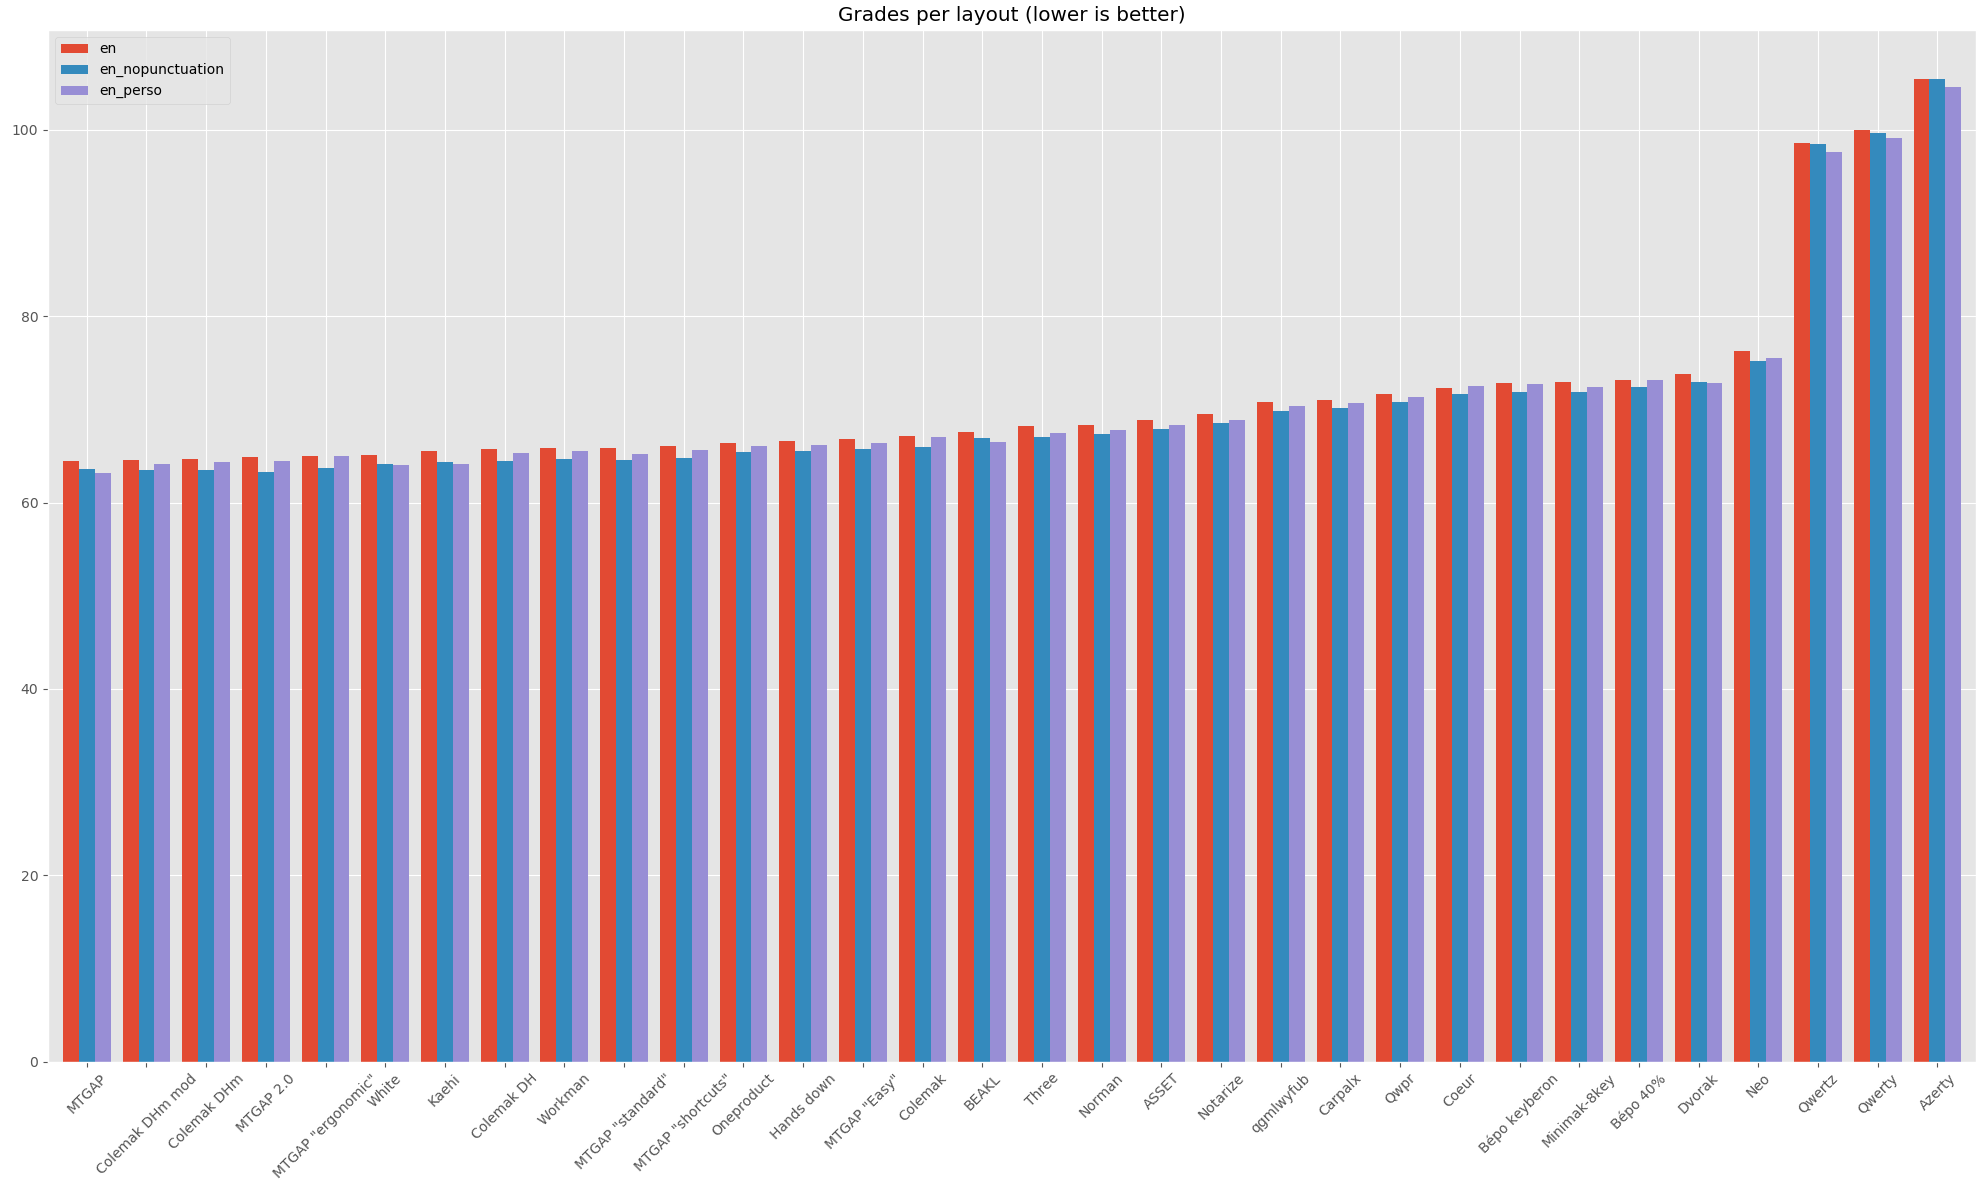
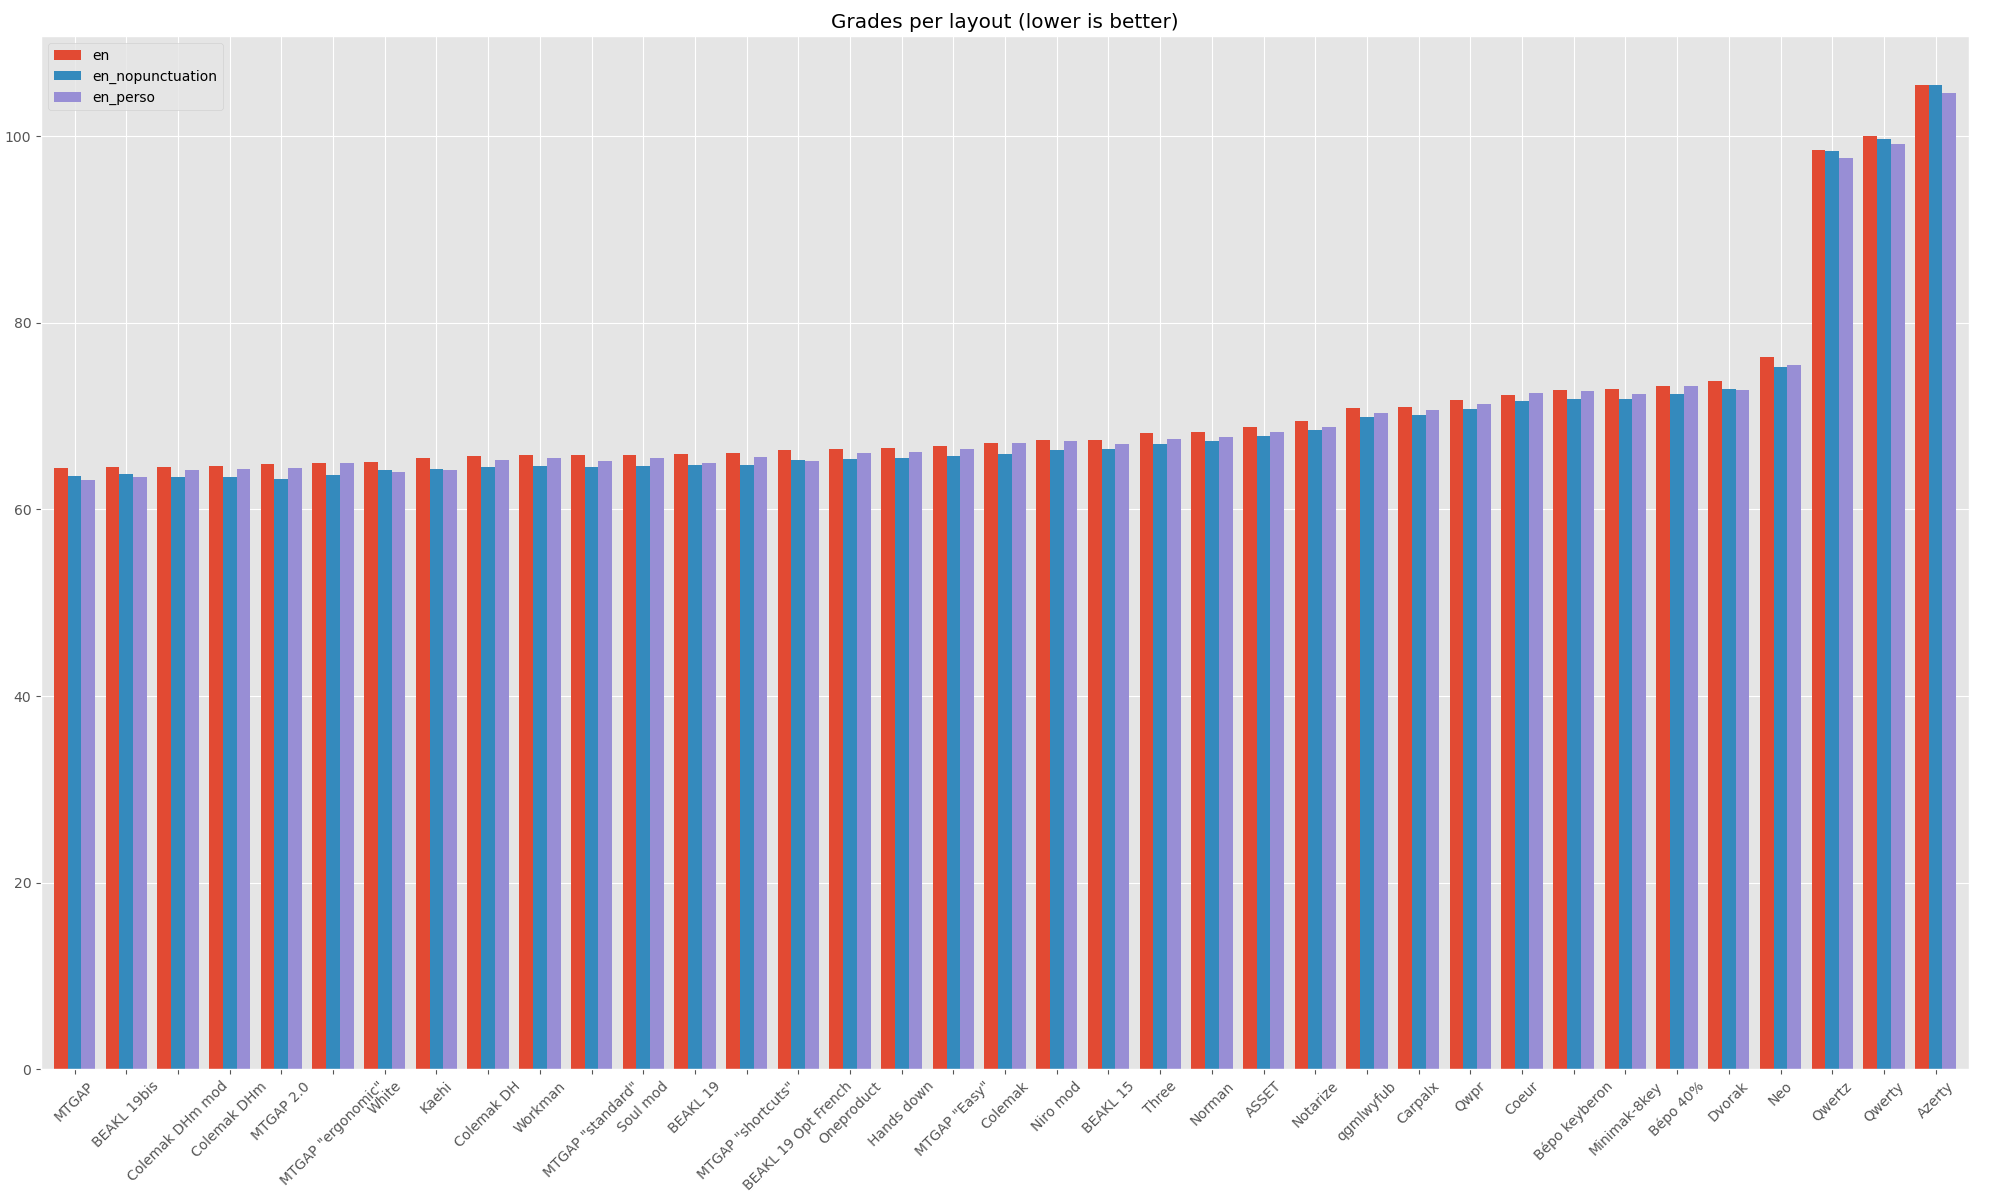
added Niro and Soul, adapted README to BEAKL 19bis

diff --git a/layout_evaluation/script.py b/layout_evaluation/script.py
@@ -57,11 +57,11 @@ def main():
     df_results['Personal average'] = df_results.en * 0.5 + df_results.fr * 0.3 + df_results.es * 0.1 + df_results.de * 0.1
 
     # sort the results
-    df_results = df_results.sort_values(by=['Personal average'], ascending=True)
+    df_results = df_results.sort_values(by=['en'], ascending=True)
 
     # filter/reorder the results
-    # df_results = df_results[['en', 'en_nopunctuation', 'en_perso', 'fr', 'fr_nopunctuation', 'fr_perso', 'es', 'de']]
-    df_results = df_results[['en', 'en_perso', 'fr', 'fr_perso', 'es', 'de', 'Personal average']] # results_full.png
+    # df_results = df_results[['en', 'en_nopunctuation', 'en_perso', 'fr', 'fr_nopunctuation', 'fr_perso', 'es', 'de', 'Personal average']]
+    df_results = df_results[['en', 'en_perso', 'fr', 'fr_perso', 'es', 'de']] # results_full.png
     # df_results = df_results[['en', 'fr', 'es', 'de']] # results.png
     # df_results = df_results[['en', 'en_nopunctuation', 'en_perso']] # results_en.png
     # df_results = df_results[['fr', 'fr_nopunctuation', 'fr_perso']] # results_fr.png

diff --git a/README.md b/README.md
@@ -214,40 +214,45 @@ In addition, here are the results for [only English](images/results_en.png) and 
 
 Here is the complete results list. The layouts can be seen in `config.txt`.
 
-| Layout                                                                                          | English | English perso | French | French perso | Spanish | German |
-| :---------------------------------------------------------------------------------------------- | ------: | ------------: | -----: | -----------: | ------: | -----: |
-| [MTGAP](https://mathematicalmulticore.wordpress.com/the-keyboard-layout-project/)               |   64.48 |         63.17 |  69.73 |        69.20 |   66.14 |  67.15 |
-| Colemak DHm mod                                                                                 |   64.54 |         64.18 |  67.32 |        66.75 |   64.18 |  64.70 |
-| [Colemak DHm](https://colemakmods.github.io/mod-dh/keyboards.html)                              |   64.66 |         64.31 |  67.88 |        67.21 |   64.18 |  64.70 |
-| [MTGAP 2.0](https://mathematicalmulticore.wordpress.com/2010/06/21/mtgaps-keyboard-layout-2-0/) |   64.91 |         64.44 |  67.21 |        65.77 |   64.01 |  64.98 |
-| [MTGAP "ergonomic"](http://mtgap.bilfo.com/official_keyboard.html)                              |   64.99 |         64.96 |  69.18 |        68.63 |   64.81 |  66.23 |
-| [White](https://github.com/mw8/white_keyboard_layout)                                           |   65.10 |         64.00 |  73.60 |        73.76 |   68.09 |  66.50 |
-| [Kaehi](https://geekhack.org/index.php?topic=98275.0)                                           |   65.56 |         64.18 |  70.35 |        69.09 |   65.92 |  67.83 |
-| [Colemak DH](https://colemakmods.github.io/mod-dh/)                                             |   65.71 |         65.29 |  69.32 |        68.64 |   65.67 |  65.43 |
-| [Workman](https://workmanlayout.org/)                                                           |   65.83 |         65.51 |  71.42 |        70.57 |   66.85 |  66.93 |
-| [MTGAP "standard"](http://mtgap.bilfo.com/official_keyboard.html)                               |   65.84 |         65.24 |  68.35 |        67.27 |   64.43 |  66.78 |
-| [MTGAP "shortcuts"](http://mtgap.bilfo.com/official_keyboard.html) (ROTS)                       |   66.02 |         65.59 |  68.24 |        67.30 |   62.72 |  65.44 |
-| [Oneproduct](https://geekhack.org/index.php?topic=67604.0)                                      |   66.44 |         66.07 |  73.48 |        72.44 |   68.07 |  68.45 |
-| [Hands down](https://sites.google.com/alanreiser.com/handsdown)                                 |   66.64 |         66.20 |  68.97 |        67.21 |   66.10 |  63.14 |
-| [MTGAP "Easy"](http://mtgap.bilfo.com/official_keyboard.html)                                   |   66.78 |         66.44 |  68.63 |        67.15 |   64.55 |  64.97 |
-| [Colemak](https://colemak.com/)                                                                 |   67.15 |         67.08 |  68.40 |        67.00 |   65.37 |  67.77 |
-| [BEAKL](https://deskthority.net/wiki/BEAKL)                                                     |   67.53 |         66.54 |  71.57 |        70.62 |   68.37 |  72.13 |
-| [Three](https://github.com/jackrosenthal/threelayout)                                           |   68.23 |         67.51 |  73.43 |        72.53 |   69.46 |  71.00 |
-| [Norman](https://normanlayout.info/)                                                            |   68.34 |         67.74 |  74.01 |        72.48 |   71.24 |  69.86 |
-| [ASSET](http://millikeys.sourceforge.net/asset/)                                                |   68.88 |         68.29 |  69.42 |        67.53 |   66.69 |  70.35 |
-| [Notarize](https://sites.google.com/alanreiser.com/handsdown)                                   |   69.45 |         68.83 |  70.76 |        68.81 |   67.68 |  69.21 |
-| [qgmlwyfub](http://mkweb.bcgsc.ca/carpalx/?full_optimization)                                   |   70.83 |         70.39 |  75.87 |        76.11 |   70.24 |  72.16 |
-| [Carpalx](http://mkweb.bcgsc.ca/carpalx/?full_optimization)                                     |   71.02 |         70.70 |  76.25 |        76.62 |   70.86 |  74.00 |
-| [Qwpr](https://sourceforge.net/projects/qwpr/)                                                  |   71.69 |         71.30 |  73.36 |        72.93 |   69.44 |  73.07 |
-| [Coeur](https://bepo.fr/wiki/Utilisateur:Bibidibop)                                             |   72.29 |         72.46 |  67.35 |        65.66 |   67.07 |  71.04 |
-| [Bépo keyberon](https://github.com/TeXitoi/keyberon#whats-the-layout)                           |   72.79 |         72.71 |  68.15 |        66.78 |   68.53 |  72.07 |
-| [Minimak-8key](http://www.minimak.org/)                                                         |   72.94 |         72.37 |  74.81 |        73.48 |   71.94 |  75.20 |
-| [Bépo 40%](http://forum.bepo.fr/viewtopic.php?id=1131)                                          |   73.20 |         73.19 |  67.97 |        66.61 |   68.54 |  73.10 |
-| [Dvorak](https://en.wikipedia.org/wiki/Dvorak_keyboard_layout)                                  |   73.74 |         72.79 |  78.15 |        76.07 |   75.34 |  74.59 |
-| [Neo](https://neo-layout.org/)                                                                  |   76.31 |         75.50 |  76.37 |        75.37 |   74.56 |  71.62 |
-| Qwertz                                                                                          |   98.56 |         97.63 |  98.12 |        97.59 |   93.66 |  98.31 |
-| Qwerty                                                                                          |  100.00 |         99.17 |  98.90 |        98.64 |   92.45 |  99.74 |
-| Azerty                                                                                          |  105.44 |        104.64 | 104.18 |       103.88 |  102.40 | 102.81 |
+| Layout                                                                                                                                        | English | English perso | French | French perso | Spanish | German |
+| :-------------------------------------------------------------------------------------------------------------------------------------------- | ------: | ------------: | -----: | -----------: | ------: | -----: |
+| [MTGAP](https://mathematicalmulticore.wordpress.com/the-keyboard-layout-project/)                                                             |   64.48 |         63.17 |  69.73 |        69.20 |   66.14 |  67.15 |
+| [BEAKL 19bis](https://www.reddit.com/r/ErgoDoxEZ/comments/gsvpug/layout_of_the_month_beakl_15/ftcan68/?context=3)                             |   64.51 |         63.47 |  66.87 |        65.81 |   64.45 |  67.92 |
+| Colemak DHm mod                                                                                                                               |   64.54 |         64.18 |  67.32 |        66.75 |   64.18 |  64.70 |
+| [Colemak DHm](https://colemakmods.github.io/mod-dh/keyboards.html)                                                                            |   64.66 |         64.31 |  67.88 |        67.21 |   64.18 |  64.70 |
+| [MTGAP 2.0](https://mathematicalmulticore.wordpress.com/2010/06/21/mtgaps-keyboard-layout-2-0/)                                               |   64.91 |         64.44 |  67.21 |        65.77 |   64.01 |  64.98 |
+| [MTGAP "ergonomic"](http://mtgap.bilfo.com/official_keyboard.html)                                                                            |   64.99 |         64.96 |  69.18 |        68.63 |   64.81 |  66.23 |
+| [White](https://github.com/mw8/white_keyboard_layout)                                                                                         |   65.10 |         64.00 |  73.60 |        73.76 |   68.09 |  66.50 |
+| [Kaehi](https://geekhack.org/index.php?topic=98275.0)                                                                                         |   65.56 |         64.18 |  70.35 |        69.09 |   65.92 |  67.83 |
+| [Colemak DH](https://colemakmods.github.io/mod-dh/)                                                                                           |   65.71 |         65.29 |  69.32 |        68.64 |   65.67 |  65.43 |
+| [Workman](https://workmanlayout.org/)                                                                                                         |   65.83 |         65.51 |  71.42 |        70.57 |   66.85 |  66.93 |
+| [MTGAP "standard"](http://mtgap.bilfo.com/official_keyboard.html)                                                                             |   65.84 |         65.24 |  68.35 |        67.27 |   64.43 |  66.78 |
+| [Soul mod](http://kennetchaz.github.io/symmetric-typing/soul.html)                                                                            |   65.89 |         65.53 |  68.96 |        68.00 |   64.71 |  64.38 |
+| [BEAKL 19](https://www.reddit.com/r/ErgoDoxEZ/comments/gsvpug/layout_of_the_month_beakl_15/fsc1t3y/?context=3)                                |   65.98 |         65.00 |  70.36 |        68.28 |   66.12 |  66.99 |
+| [MTGAP "shortcuts"](http://mtgap.bilfo.com/official_keyboard.html) (ROTS)                                                                     |   66.02 |         65.59 |  68.24 |        67.30 |   62.72 |  65.44 |
+| [BEAKL 19 Opt French](https://www.reddit.com/r/ErgoMechKeyboards/comments/j1eopm/hands_down_layout_is_ready_for_daily_use/g7bjmr7/?context=3) |   66.32 |         65.23 |  67.12 |        65.96 |   65.85 |  65.31 |
+| [Oneproduct](https://geekhack.org/index.php?topic=67604.0)                                                                                    |   66.44 |         66.07 |  73.48 |        72.44 |   68.07 |  68.45 |
+| [Hands down](https://sites.google.com/alanreiser.com/handsdown)                                                                               |   66.64 |         66.20 |  68.97 |        67.21 |   66.10 |  63.14 |
+| [MTGAP "Easy"](http://mtgap.bilfo.com/official_keyboard.html)                                                                                 |   66.78 |         66.44 |  68.63 |        67.15 |   64.55 |  64.97 |
+| [Colemak](https://colemak.com/)                                                                                                               |   67.15 |         67.08 |  68.40 |        67.00 |   65.37 |  67.77 |
+| [Niro mod](http://kennetchaz.github.io/symmetric-typing/niro.html)                                                                            |   67.41 |         67.39 |  70.47 |        69.30 |   66.58 |  67.71 |
+| [BEAKL 15](https://deskthority.net/wiki/BEAKL)                                                                                                |   67.43 |         66.98 |  71.86 |        69.85 |   66.64 |  69.37 |
+| [Three](https://github.com/jackrosenthal/threelayout)                                                                                         |   68.23 |         67.51 |  73.43 |        72.53 |   69.46 |  71.00 |
+| [Norman](https://normanlayout.info/)                                                                                                          |   68.34 |         67.74 |  74.01 |        72.48 |   71.24 |  69.86 |
+| [ASSET](http://millikeys.sourceforge.net/asset/)                                                                                              |   68.88 |         68.29 |  69.42 |        67.53 |   66.69 |  70.35 |
+| [Notarize](https://sites.google.com/alanreiser.com/handsdown)                                                                                 |   69.45 |         68.83 |  70.76 |        68.81 |   67.68 |  69.21 |
+| [qgmlwyfub](http://mkweb.bcgsc.ca/carpalx/?full_optimization)                                                                                 |   70.83 |         70.39 |  75.87 |        76.11 |   70.24 |  72.16 |
+| [Carpalx](http://mkweb.bcgsc.ca/carpalx/?full_optimization)                                                                                   |   71.02 |         70.70 |  76.25 |        76.62 |   70.86 |  74.00 |
+| [Qwpr](https://sourceforge.net/projects/qwpr/)                                                                                                |   71.69 |         71.30 |  73.36 |        72.93 |   69.44 |  73.07 |
+| [Coeur](https://bepo.fr/wiki/Utilisateur:Bibidibop)                                                                                           |   72.29 |         72.46 |  67.35 |        65.66 |   67.07 |  71.04 |
+| [Bépo keyberon](https://github.com/TeXitoi/keyberon#whats-the-layout)                                                                         |   72.79 |         72.71 |  68.15 |        66.78 |   68.53 |  72.07 |
+| [Minimak-8key](http://www.minimak.org/)                                                                                                       |   72.94 |         72.37 |  74.81 |        73.48 |   71.94 |  75.20 |
+| [Bépo 40%](http://forum.bepo.fr/viewtopic.php?id=1131)                                                                                        |   73.20 |         73.19 |  67.97 |        66.61 |   68.54 |  73.10 |
+| [Dvorak](https://en.wikipedia.org/wiki/Dvorak_keyboard_layout)                                                                                |   73.74 |         72.79 |  78.15 |        76.07 |   75.34 |  74.59 |
+| [Neo](https://neo-layout.org/)                                                                                                                |   76.31 |         75.50 |  76.37 |        75.37 |   74.56 |  71.62 |
+| Qwertz                                                                                                                                        |   98.56 |         97.63 |  98.12 |        97.59 |   93.66 |  98.31 |
+| Qwerty                                                                                                                                        |  100.00 |         99.17 |  98.90 |        98.64 |   92.45 |  99.74 |
+| Azerty                                                                                                                                        |  105.44 |        104.64 | 104.18 |       103.88 |  102.40 | 102.81 |
 
 As the "Colemak DHm" layout gave the most interesting results, a personal modified version was added to replace some characters like `;` (that can be on a layer like Shift + `,`) by the French `é`.
 
@@ -257,8 +262,8 @@ All the alternative layouts perform very significantly better than the tradition
 
 ![results](images/results.png "Grades per layout")
 
-The options that perform the best are some Colemak variants like DHm, as well as the ones generated by [Mathematical multicore](https://mathematicalmulticore.wordpress.com/) (MTGAP). Colemak DHm (below) gives very good results without compromising any of the 4 languages, which makes sense as it stems from user feedback on ergonomic keyboards.
+The options that perform the best are some Colemak variants like DHm, the obscure [BEAKL 19bis](https://www.reddit.com/r/ErgoDoxEZ/comments/gsvpug/layout_of_the_month_beakl_15/ftcan68/?context=3), as well as the layouts generated by [Mathematical multicore](https://mathematicalmulticore.wordpress.com/) (MTGAP). Colemak DHm (below) gives very good results without compromising any of the 4 languages, which makes sense as it stems from user feedback on ergonomic keyboards.
 
 ![Colemak DHm](images/ColemakDHm.png "Colemak DHm layout")
 
-In conclusion, the Colemak DHm layout is particularly recommended for its good results and better shortcuts access, familiarity with Qwerty, and larger positive user feedback. 
+In conclusion, the Colemak DHm layout is particularly recommended for its good results and better shortcuts access, familiarity with Qwerty, and larger positive user feedback.
